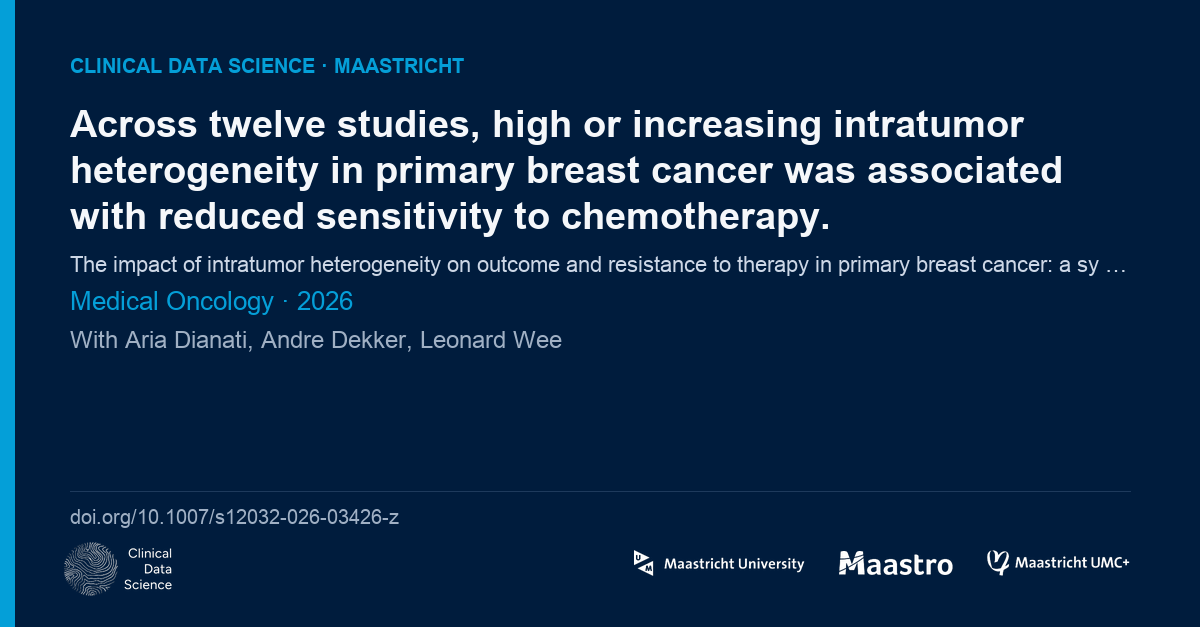
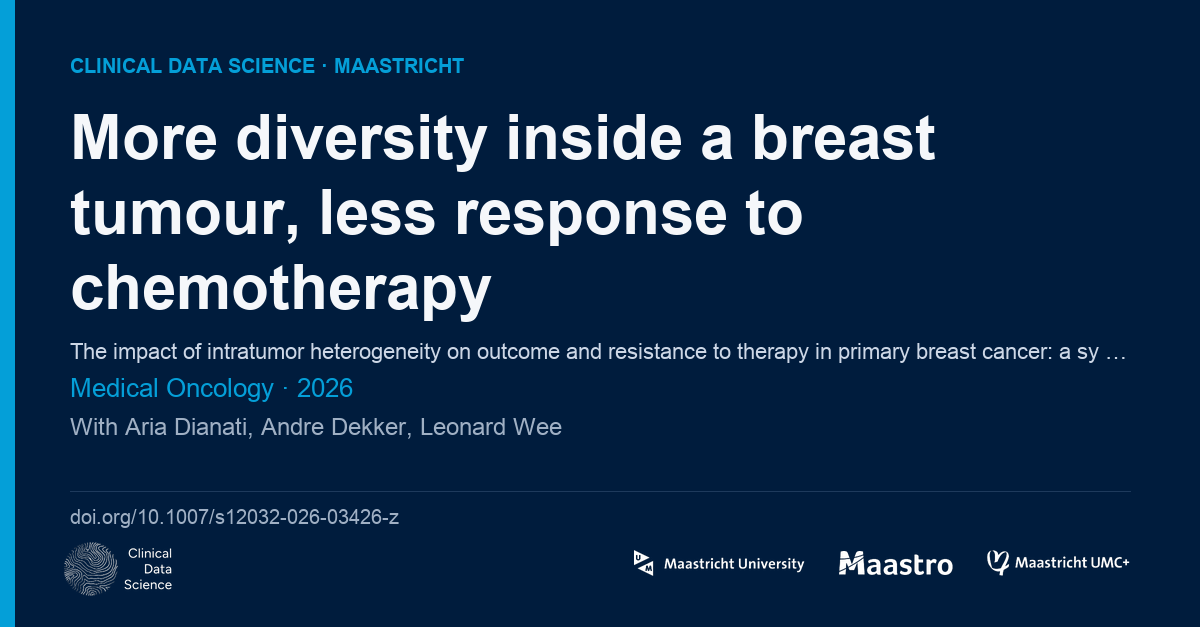
Card leads with a catchy headline (generated with the post); sample headlines; author line wraps

Changed region(s): [[0.0617, 0.1818, 0.925, 0.5758], [0.0617, 0.6667, 0.4625, 0.697], [0.0617, 0.6061, 0.3083, 0.6364]]

diff --git a/pubpulse/social.py b/pubpulse/social.py
@@ -22,7 +22,11 @@ SYSTEM_PROMPT = """You write LinkedIn posts for the Clinical Data Science group 
 Audience: clinicians, health-data scientists, hospital managers. Tone: plain, concrete, no hype, no emojis, no
 hashtags in the body (at most 3 at the very end), no phrases like "excited to share" or "thrilled".
 
-Write three things from the paper you are given:
+Write four things from the paper you are given:
+
+### HEADLINE
+The main point as a catchy, plain-language line for an image card: at most 60 characters, no jargon, no question,
+no clickbait, no exclamation mark. Example style: "Privacy protection that costs nothing in accuracy".
 
 ### POST
 A LinkedIn post of 110 to 170 words, with NO links in it (links go in the first comment):
@@ -41,7 +45,7 @@ A two-sentence version of at most 280 characters including the DOI link (for oth
 
 Rules: use only facts that are in the abstract; if the abstract gives no numbers, do not invent any; never say
 "first", "novel" or "breakthrough" unless the abstract does; mark any claim you are unsure about with [check].
-Output exactly the three sections, each starting with its "### POST" / "### COMMENT" / "### SHORT" heading line, nothing else."""
+Output exactly the four sections, each starting with its "### HEADLINE" / "### POST" / "### COMMENT" / "### SHORT" heading line, nothing else."""
 
 
 def eligible(w: dict) -> bool:
@@ -66,10 +70,12 @@ def user_message(w: dict, names: dict[str, str]) -> str:
 
 
 def parse_output(text: str) -> dict:
+    headline = re.search(r"###\s*HEADLINE\s*\n(.*?)(?=\n###|\Z)", text, re.S)
     post = re.search(r"###\s*POST\s*\n(.*?)(?=\n###\s*(?:COMMENT|SHORT)|\Z)", text, re.S)
     comment = re.search(r"###\s*COMMENT\s*\n(.*?)(?=\n###\s*SHORT|\Z)", text, re.S)
     short = re.search(r"###\s*SHORT\s*\n(.*)", text, re.S)
-    return {"post": (post.group(1) if post else text).strip(), "comment": (comment.group(1) if comment else "").strip(),
+    return {"headline": (headline.group(1) if headline else "").strip().strip('"'),
+            "post": (post.group(1) if post else text).strip(), "comment": (comment.group(1) if comment else "").strip(),
             "short": (short.group(1) if short else "").strip()}
 
 
@@ -111,7 +117,7 @@ def write_index() -> dict:
     index = {}
     for p in sorted(SOCIAL_DIR.glob("W*.json")):
         d = json.loads(p.read_text(encoding="utf-8"))
-        index[d["id"]] = {k: d.get(k) for k in ("post", "comment", "short", "model", "generated_at", "flags", "card", "figure", "figure_note")}
+        index[d["id"]] = {k: d.get(k) for k in ("headline", "post", "comment", "short", "model", "generated_at", "flags", "card", "figure", "figure_note")}
     SOCIAL_DIR.mkdir(parents=True, exist_ok=True)
     INDEX_PATH.write_text(json.dumps(index, ensure_ascii=False, indent=1), encoding="utf-8")
     return index

diff --git a/pubpulse/images.py b/pubpulse/images.py
@@ -90,7 +90,7 @@ def make_card(w: dict, names: dict[str, str], out_path: Path, group_label: str =
     d.text((x, y), group_label.upper(), font=_font(20, True), fill=ACCENT)
     y += 48
     headline = (finding or w["title"]).strip()
-    size = 44 if len(headline) < 120 else 38 if len(headline) < 190 else 33
+    size = 62 if len(headline) <= 70 else 44 if len(headline) < 120 else 38 if len(headline) < 190 else 33
     head_font = _font(size, True)
     lines = _wrap(headline, head_font, width, d)
     while len(lines) > 4 and size > 28:
@@ -113,8 +113,14 @@ def make_card(w: dict, names: dict[str, str], out_path: Path, group_label: str =
     y += 40
     members = ", ".join(names.get(s, s) for s in w.get("group_members", []))
     if members:
-        d.text((x, y), _ellipsis("With " + members, _font(24), width, d), font=_font(24), fill=MUTED)
-        y += 34
+        mf = _font(24)
+        mlines = _wrap("With " + members, mf, width, d)
+        if len(mlines) > 2:
+            mlines = mlines[:2]
+            mlines[-1] = _ellipsis(mlines[-1], mf, width - 30, d)
+        for line in mlines:
+            d.text((x, y), line, font=mf, fill=MUTED)
+            y += 32
     # footer: DOI, CDS emblem left, partner logos right
     foot_y = CARD_SIZE[1] - 118
     d.line([(x, foot_y - 18), (CARD_SIZE[0] - 70, foot_y - 18)], fill=(30, 58, 92), width=1)
@@ -294,7 +300,9 @@ def credit_line(w: dict) -> str:
 
 
 def main_finding(draft: dict) -> str | None:
-    """First sentence/line of the post: the plain statement of the finding."""
+    """The card headline: the catchy headline when the draft has one, else the first line of the post."""
+    if draft.get("headline"):
+        return draft["headline"].strip()
     post = (draft.get("post") or "").strip()
     if not post:
         return None

diff --git a/tests/test_social.py b/tests/test_social.py
@@ -10,8 +10,9 @@ def test_eligibility_excludes_preprints_and_unverified():
 
 
 def test_parse_output_sections():
-    text = "### POST\nLine one.\n\nPublished in J.\n\n### COMMENT\nPaper: https://doi.org/x\n\n### SHORT\nShort one. https://doi.org/x"
+    text = "### HEADLINE\n\"Catchy line\"\n### POST\nLine one.\n\nPublished in J.\n\n### COMMENT\nPaper: https://doi.org/x\n\n### SHORT\nShort one. https://doi.org/x"
     out = parse_output(text)
+    assert out["headline"] == "Catchy line"
     assert out["post"].startswith("Line one.") and out["post"].endswith("Published in J.")
     assert out["comment"] == "Paper: https://doi.org/x" and out["short"] == "Short one. https://doi.org/x"
     assert parse_output("no headings")["post"] == "no headings"

diff --git a/social/samples-2026-10.md b/social/samples-2026-10.md
@@ -138,3 +138,15 @@ shows the main finding; methods figures are rejected.
 
 With the API key in place, the same selection and description step runs automatically with Claude; without it, the
 largest figure is taken and marked "unchecked pick" so a person always looks before posting.
+
+## Card headlines (added 2026-10-23)
+
+The card leads with a catchy main point (max ~60 characters, plain words); the pipeline generates it with the post.
+
+| Paper | Headline |
+|---|---|
+| npj Breast Cancer | One patient, one knowledge graph, three hospitals that can compare |
+| JMIR AI | AI reporting standards in health care: plenty, but none a machine can read |
+| Frontiers | Privacy protection that costs nothing in accuracy |
+| Medical Oncology | More diversity inside a breast tumour, less response to chemotherapy |
+| Lancet Digital Health | A face photo predicts survival in cancer beyond the clinical data |
